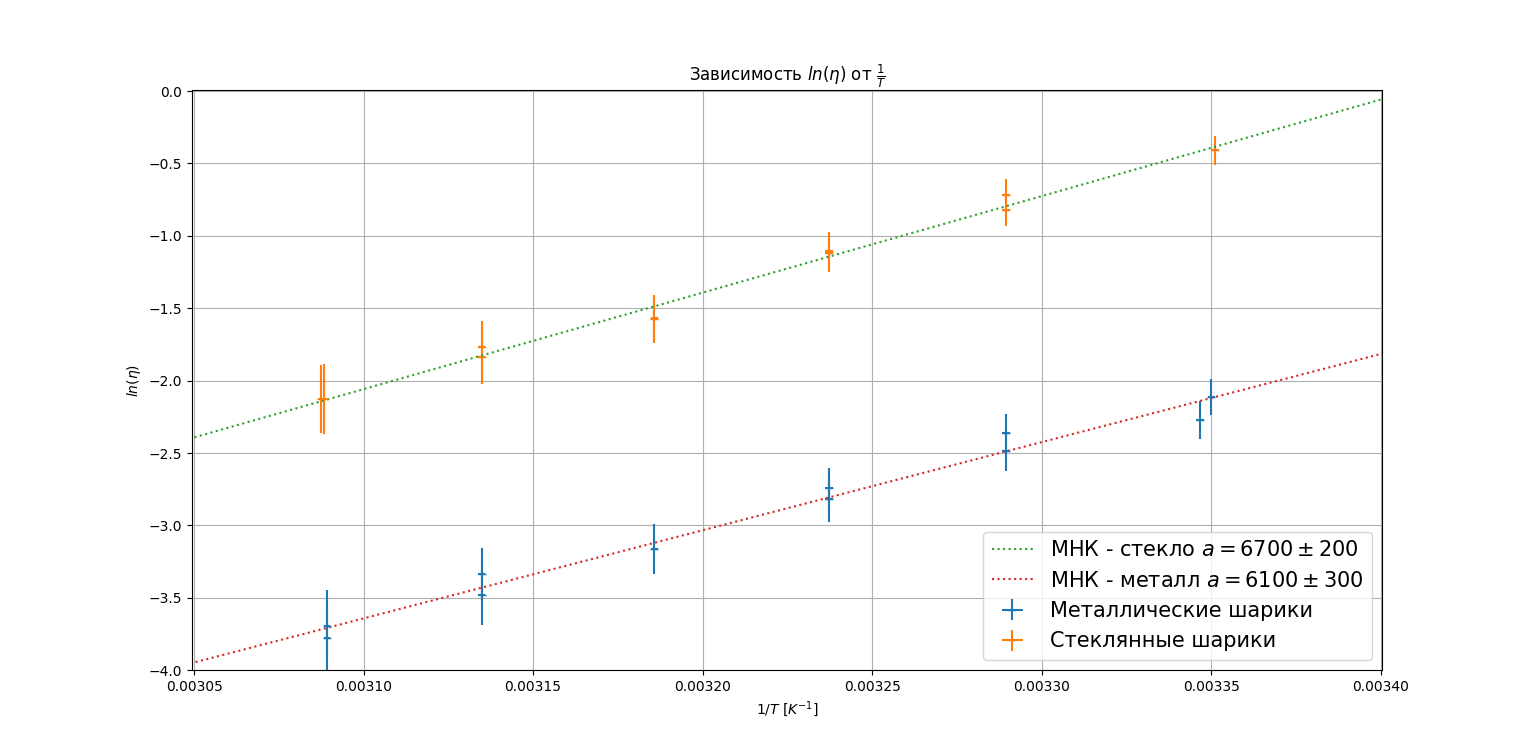
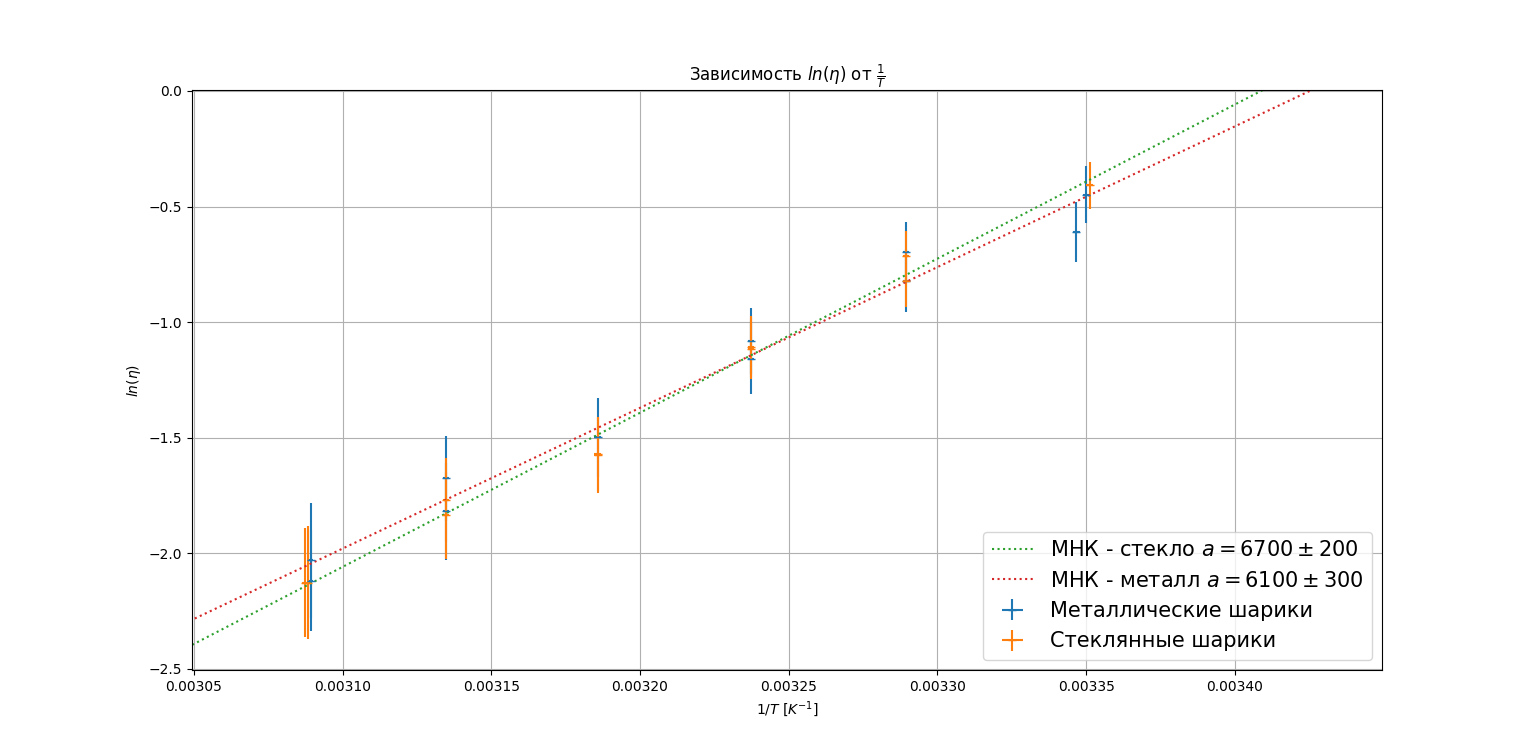
Добавлено вычисление числа Рейнольдса

diff --git a/Термодинамика/ОпределениеЭнергииАктивации/glass.tex b/Термодинамика/ОпределениеЭнергииАктивации/glass.tex
@@ -3,19 +3,19 @@
 \caption{Стеклянные шарики}
 \begin{tabular}{lrrrr}
 \toprule
-                 Материал &    $1/T$ &     $D$ &  Время падения &  $ln(\eta)$ \\
+                 Материал &  $1/T$ $[K^{-1}]$ &  $D$[м] &  Время падения[с] &  $ln(\eta)$ \\
 \midrule
-Стекло $\ro = 2.5 g/cm^3$ & 0.003351 & 0.00210 &          22.30 &   -0.408567 \\
-Стекло $\ro = 2.5 g/cm^3$ & 0.003289 & 0.00210 &          16.40 &   -0.715872 \\
-Стекло $\ro = 2.5 g/cm^3$ & 0.003289 & 0.00205 &          15.50 &   -0.820509 \\
-Стекло $\ro = 2.5 g/cm^3$ & 0.003237 & 0.00210 &          11.10 &   -1.106208 \\
-Стекло $\ro = 2.5 g/cm^3$ & 0.003237 & 0.00210 &          11.00 &   -1.115258 \\
-Стекло $\ro = 2.5 g/cm^3$ & 0.003186 & 0.00200 &           7.70 &   -1.569514 \\
-Стекло $\ro = 2.5 g/cm^3$ & 0.003186 & 0.00200 &           7.65 &   -1.576028 \\
-Стекло $\ro = 2.5 g/cm^3$ & 0.003135 & 0.00200 &           6.30 &   -1.770184 \\
-Стекло $\ro = 2.5 g/cm^3$ & 0.003135 & 0.00200 &           5.90 &   -1.835782 \\
-Стекло $\ro = 2.5 g/cm^3$ & 0.003087 & 0.00205 &           4.20 &   -2.126264 \\
-Стекло $\ro = 2.5 g/cm^3$ & 0.003088 & 0.00210 &           4.00 &   -2.126859 \\
+Стекло $\ro = 2.5 g/cm^3$ &          0.003351 & 0.00210 &             22.30 &   -0.408567 \\
+Стекло $\ro = 2.5 g/cm^3$ &          0.003289 & 0.00210 &             16.40 &   -0.715872 \\
+Стекло $\ro = 2.5 g/cm^3$ &          0.003289 & 0.00205 &             15.50 &   -0.820509 \\
+Стекло $\ro = 2.5 g/cm^3$ &          0.003237 & 0.00210 &             11.10 &   -1.106208 \\
+Стекло $\ro = 2.5 g/cm^3$ &          0.003237 & 0.00210 &             11.00 &   -1.115258 \\
+Стекло $\ro = 2.5 g/cm^3$ &          0.003186 & 0.00200 &              7.70 &   -1.569514 \\
+Стекло $\ro = 2.5 g/cm^3$ &          0.003186 & 0.00200 &              7.65 &   -1.576028 \\
+Стекло $\ro = 2.5 g/cm^3$ &          0.003135 & 0.00200 &              6.30 &   -1.770184 \\
+Стекло $\ro = 2.5 g/cm^3$ &          0.003135 & 0.00200 &              5.90 &   -1.835782 \\
+Стекло $\ro = 2.5 g/cm^3$ &          0.003087 & 0.00205 &              4.20 &   -2.126264 \\
+Стекло $\ro = 2.5 g/cm^3$ &          0.003088 & 0.00210 &              4.00 &   -2.126859 \\
 \bottomrule
 \end{tabular}
 \end{table}

diff --git a/Термодинамика/ОпределениеЭнергииАктивации/metal.tex b/Термодинамика/ОпределениеЭнергииАктивации/metal.tex
@@ -3,19 +3,19 @@
 \caption{Металлические шарики}
 \begin{tabular}{lrrrr}
 \toprule
-                Материал &    $1/T$ &     $D$ &  Время падения &  $ln(\eta)$ \\
+                Материал &  $1/T$ $[K^{-1}]$ &  $D$[м] &  Время падения[с] &  $ln(\eta)$ \\
 \midrule
-Сталь $\ro = 7.8 g/cm^3$ & 0.003350 & 0.00080 &          28.00 &   -2.111111 \\
-Сталь $\ro = 7.8 g/cm^3$ & 0.003347 & 0.00075 &          27.10 &   -2.272859 \\
-Сталь $\ro = 7.8 g/cm^3$ & 0.003289 & 0.00080 &          21.80 &   -2.361405 \\
-Сталь $\ro = 7.8 g/cm^3$ & 0.003289 & 0.00085 &          17.10 &   -2.482988 \\
-Сталь $\ro = 7.8 g/cm^3$ & 0.003237 & 0.00070 &          19.40 &   -2.745105 \\
-Сталь $\ro = 7.8 g/cm^3$ & 0.003237 & 0.00085 &          12.20 &   -2.820630 \\
-Сталь $\ro = 7.8 g/cm^3$ & 0.003186 & 0.00080 &           9.80 &   -3.160933 \\
-Сталь $\ro = 7.8 g/cm^3$ & 0.003135 & 0.00085 &           6.30 &   -3.481517 \\
-Сталь $\ro = 7.8 g/cm^3$ & 0.003135 & 0.00080 &           8.20 &   -3.339181 \\
-Сталь $\ro = 7.8 g/cm^3$ & 0.003089 & 0.00090 &           4.55 &   -3.692622 \\
-Сталь $\ro = 7.8 g/cm^3$ & 0.003089 & 0.00075 &           6.00 &   -3.780633 \\
+Сталь $\ro = 7.8 g/cm^3$ &          0.003350 & 0.00080 &             28.00 &   -0.448285 \\
+Сталь $\ro = 7.8 g/cm^3$ &          0.003347 & 0.00075 &             27.10 &   -0.610033 \\
+Сталь $\ro = 7.8 g/cm^3$ &          0.003289 & 0.00080 &             21.80 &   -0.698580 \\
+Сталь $\ro = 7.8 g/cm^3$ &          0.003289 & 0.00085 &             17.10 &   -0.820162 \\
+Сталь $\ro = 7.8 g/cm^3$ &          0.003237 & 0.00070 &             19.40 &   -1.082279 \\
+Сталь $\ro = 7.8 g/cm^3$ &          0.003237 & 0.00085 &             12.20 &   -1.157804 \\
+Сталь $\ro = 7.8 g/cm^3$ &          0.003186 & 0.00080 &              9.80 &   -1.498107 \\
+Сталь $\ro = 7.8 g/cm^3$ &          0.003135 & 0.00085 &              6.30 &   -1.818691 \\
+Сталь $\ro = 7.8 g/cm^3$ &          0.003135 & 0.00080 &              8.20 &   -1.676355 \\
+Сталь $\ro = 7.8 g/cm^3$ &          0.003089 & 0.00090 &              4.55 &   -2.029796 \\
+Сталь $\ro = 7.8 g/cm^3$ &          0.003089 & 0.00075 &              6.00 &   -2.117807 \\
 \bottomrule
 \end{tabular}
 \end{table}

diff --git a/Термодинамика/ОпределениеЭнергииАктивации/reinolds.tex b/Термодинамика/ОпределениеЭнергииАктивации/reinolds.tex
@@ -1,0 +1,21 @@
+\begin{table}
+\centering
+\caption{Число Рейнольдса}
+\begin{tabular}{rrrl}
+\toprule
+ Тепмература [K] &  Число Рейнольдса & \multicolumn{2}{l}{Погрешность} \\
+\midrule
+           298.4 &          0.892675 &     0.035707 &          \\
+           304.0 &          1.650499 &     0.066020 &          \\
+           304.0 &          1.892802 &     0.075712 &          \\
+           308.9 &          3.602941 &     0.144118 &          \\
+           308.9 &          3.668746 &     0.146750 &          \\
+           313.9 &          7.861600 &     0.314464 &          \\
+           313.9 &          7.964701 &     0.318588 &          \\
+           319.0 &         11.743871 &     0.469755 &          \\
+           319.0 &         13.390239 &     0.535610 &          \\
+           323.9 &         25.779229 &     1.031169 &          \\
+           323.8 &         27.744895 &     1.109796 &          \\
+\bottomrule
+\end{tabular}
+\end{table}
